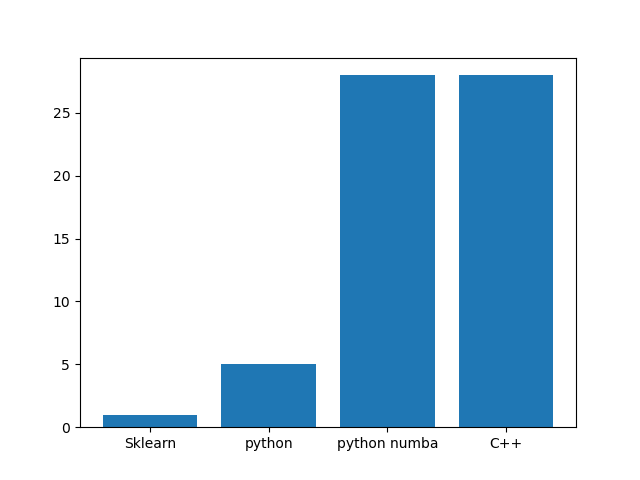
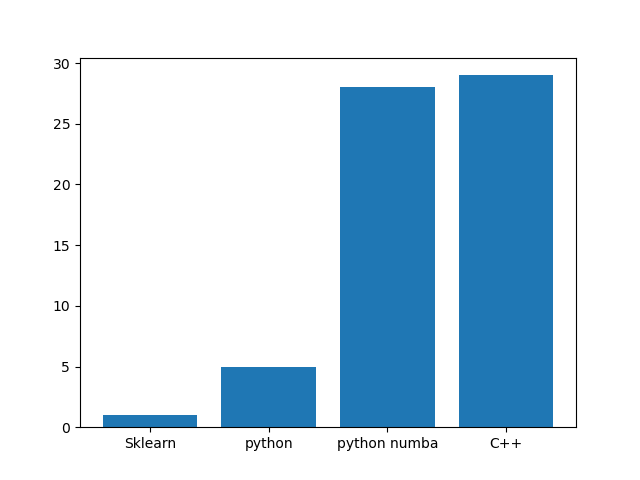
Removed openMP from compilation of C++ implementation as it is no longer useful. Updated README and speedup.png to reflect changes.

diff --git a/README.md b/README.md
@@ -6,7 +6,7 @@ python-based is approximately 5X faster than the default sklearn.metrics.roc_auc
 
 Python numba based is approximately 28X faster than the default sklearn.metrics.roc_auc_score()
 
-C++/ctypes based is approximately 28X faster than the default sklearn.metrics.roc_auc_score()
+C++/ctypes based is approximately 29X faster than the default sklearn.metrics.roc_auc_score()
 
 ![speedup](speedup.png)
 
